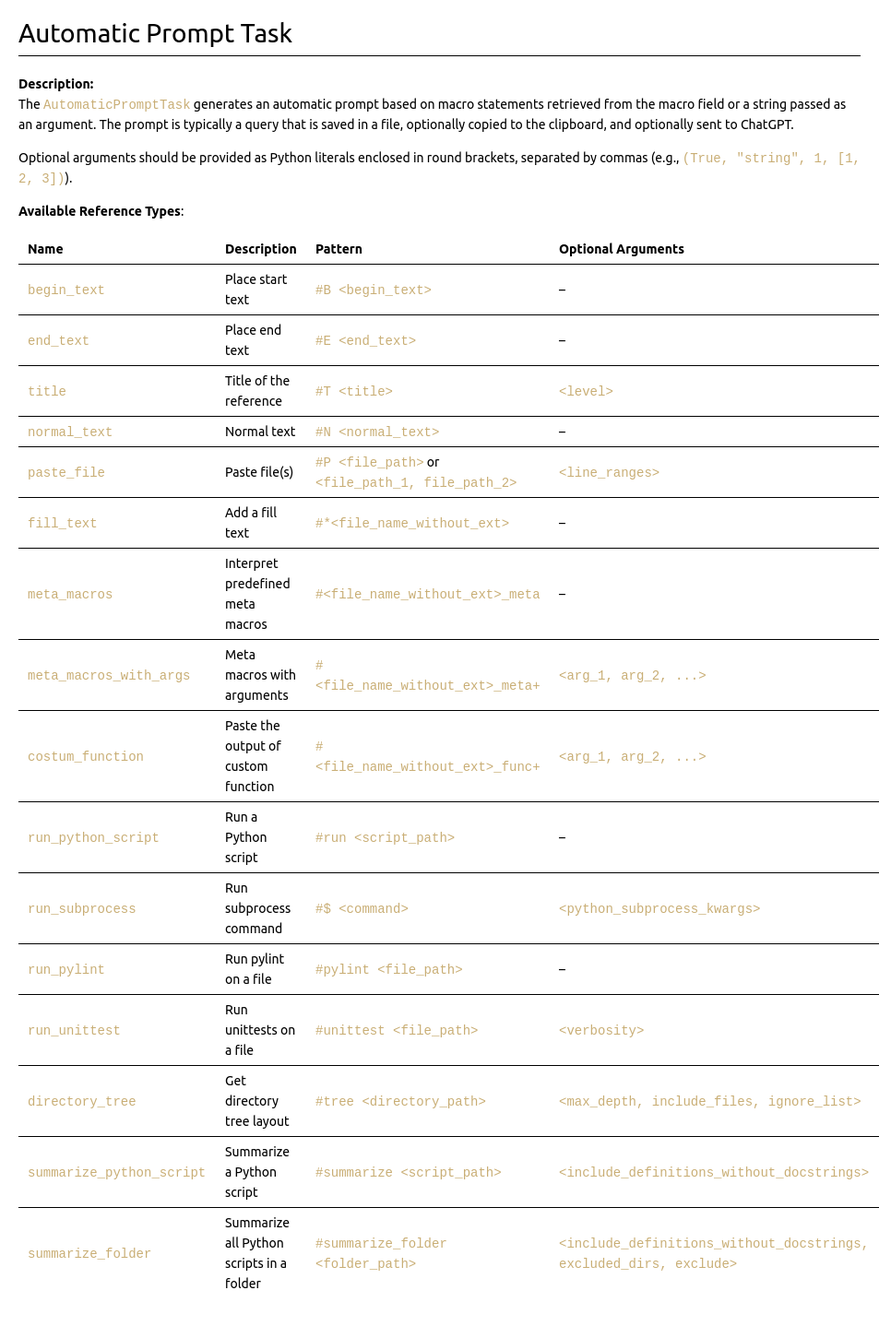
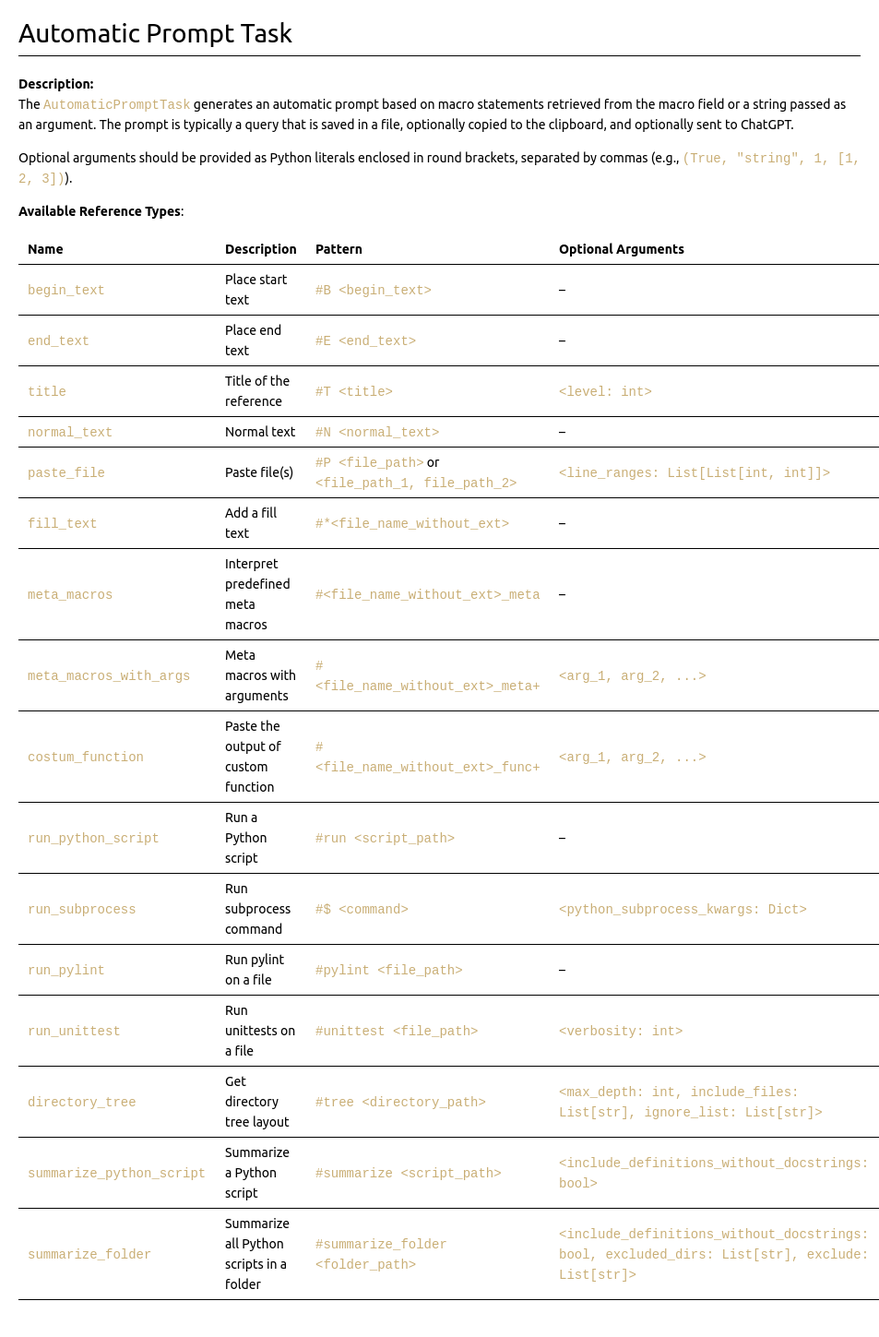
Add type hints to optional args in auto prompt macros

diff --git a/tasks/tasks/automatic_prompt/automatic_prompt_task.py b/tasks/tasks/automatic_prompt/automatic_prompt_task.py
@@ -4,27 +4,26 @@ retrieved from the macro field or a string passed as an argument. The prompt,
 typically a query, is then finalized and saved in a file.
 
 Available reference types:
-| Name                     | Description                             | Pattern                                              | Arguments                                                       |
-|--------------------------|-----------------------------------------|------------------------------------------------------|-----------------------------------------------------------------|
-| begin_text               | Place start text                        | #B <begin_text>                                      | -                                                               |
-| end_text                 | Place end text                          | #E <end_text>                                        | -                                                               |
-| title                    | Title of the reference                  | #T <title>                                           | <level: int>                                                    |
-| normal_text              | Normal text                             | #N <normal_text>                                     | -                                                               |
-| paste_file               | Paste file/s                            | #P <file_path> or <file_path_1, file_path_2>         | <line_ranges>                                                   |
-| error                    | Get logged errors                       | #L                                                   | -                                                               |
-| fill_text                | Add a fill text                         | #<file_name_without_ext>                             | -                                                               |
-| meta_macros              | Interpret predefined meta macros        | #<file_name_without_ext>_meta                        | -                                                               |
-| meta_macros_with_args    | Meta macros with args                   | #<file_name_without_ext>_meta+                       | <arg_1, arg_2, ...>                                             |
-| costum_function          | Paste the output of custom function     | #<file_name_without_ext>_func+                       | <arg_1, arg_2, ...>                                             |
-| run_python_script        | Run a Python script                     | #run <script_path>                                   | -                                                               |
-| run_command              | Run Command                             | #$ <command>                                         | <subprocess kwargs>                                             |
-| run_pylint               | Run pylint on a file                    | #run_pylint <file_path>                              | -                                                               |
-| run_unittest             | Run unittest on a file                  | #run_unittest <file_path>                            | <verbosity>                                                     |
-| directory_tree           | Get directory tree                      | #tree <directory_path>                               | <max_depth, include_files, ignore_list>                         |
-| summarize_python_script  | Summarize a Python script               | #summarize <script_path>                             | <include_definitions_with_docstrings>                           |
-| summarize_folder         | Summarize Python scripts in a folder    | #summarize_folder <folder_path>                      | <include_definitions_with_docstrings, excluded_dirs, excluded_files> |
-| send_prompt              | Send a prompt from a temporary file     | #send                                                | <create_python_script, max_tokens>                              |
-
+| Name                     | Description                             | Pattern                                              | Optional Arguments                                                                            |
+|--------------------------|-----------------------------------------|------------------------------------------------------|-----------------------------------------------------------------------------------------------|
+| begin_text               | Place start text                        | #B <begin_text>                                      | –                                                                                             |
+| end_text                 | Place end text                          | #E <end_text>                                        | –                                                                                             |
+| title                    | Title of the reference                  | #T <title>                                           | <level: int>                                                                                  |
+| normal_text              | Normal text                             | #N <normal_text>                                     | –                                                                                             |
+| paste_file               | Paste file/s                            | #P <file_path> or <file_path_1, file_path_2>         | <line_ranges: List[List[int, int]]>                                                           |
+| error                    | Get logged errors                       | #L                                                   | –                                                                                             |
+| fill_text                | Add a fill text                         | #<file_name_without_ext>                             | –                                                                                             |
+| meta_macros              | Interpret predefined meta macros        | #<file_name_without_ext>_meta                        | –                                                                                             |
+| meta_macros_with_args    | Meta macros with args                   | #<file_name_without_ext>_meta+                       | <arg_1, arg_2, ...>                                                                           |
+| costum_function          | Paste the output of custom function     | #<file_name_without_ext>_func+                       | <arg_1, arg_2, ...>                                                                           |
+| run_python_script        | Run a Python script                     | #run <script_path>                                   | –                                                                                             |
+| run_command              | Run Command                             | #$ <command>                                         | <subprocess kwargs: Dict>                                                                     |
+| run_pylint               | Run pylint on a file                    | #run_pylint <file_path>                              | –                                                                                             |
+| run_unittest             | Run unittest on a file                  | #run_unittest <file_path>                            | <verbosity: int>                                                                              |
+| directory_tree           | Get directory tree                      | #tree <directory_path>                               | <max_depth: int, include_files: List[str], ignore_list: List[str]>                            |
+| summarize_python_script  | Summarize a Python script               | #summarize <script_path>                             | <include_definitions_with_docstring: bool>                                                    |
+| summarize_folder         | Summarize Python scripts in a folder    | #summarize_folder <folder_path>                      | <include_definitions_with_docstrings: bool, excluded_dirs: List[str], excluded_files: List[str]> |
+| send_prompt              | Send a prompt from a temporary file     | #send                                                | <create_python_script: bool, max_tokens: int>                                                 |
 
 Usage Example: macros_text = ( "#T This is the Start of the prompt\n", "#C Some
 text\n", "#T New Chapter\n", "#run example_script.py\n", "#E Now that we paste

diff --git a/tasks/management/support_files/CHEATSHEET.md b/tasks/management/support_files/CHEATSHEET.md
@@ -56,24 +56,24 @@ The `AutomaticPromptTask` is designed to generate automatic prompts based on mac
 Optional arguments should be provided as Python literals enclosed in round brackets, separated by commas (e.g., `(True, "string", 1, [1, 2, 3])`). If no arguments are specified, default values will be used.
 
 **Available Reference Types**:
-| Name                     | Description                                                                                       | Pattern                                                 | Optional Arguments                                                |
-|--------------------------|---------------------------------------------------------------------------------------------------|----------------------------------------------------------|-------------------------------------------------------------------|
-| `begin_text`             | Place start text                                                                                  | `#B <begin_text>`                                        | –                                                                 |
-| `end_text`               | Place end text                                                                                    | `#E <end_text>`                                          | –                                                                 |
-| `title`                  | Title of the reference                                                                            | `#T <title>`                                             | `<level>`                                                         |
-| `normal_text`            | Normal text                                                                                       | `#N <normal_text>`                                       | –                                                                 |
-| `paste_file`             | Paste file(s)                                                                                     | `#P <file_path>` or `<file_path_1, file_path_2>`         | `<line_ranges>`                                                   |
-| `fill_text`              | Add a fill text ([see more](./costumizations/fill_texts/fill_text_template/template_4.txt))       | `#*<file_name_without_ext>`                              | –                                                                 |
-| `meta_macros`            | Interpret predefined meta macros ([see more](./costumizations/meta_macros/template_1.py))         | `#<file_name_without_ext>_meta`                          | –                                                                 |
-| `meta_macros_with_args`  | Meta macros with arguments ([see more](./costumizations/meta_macros_with_args/template_2.py))     | `#<file_name_without_ext>_meta+`                         | `<arg_1, arg_2, ...>`                                             |
-| `costum_function`        | Paste the output of custom function ([see more](./costumizations/functions/costum_function_template/template_3.py)) | `#<file_name_without_ext>_func+`                         | `<arg_1, arg_2, ...>`                                             |
-| `run_python_script`      | Run a Python script                                                                               | `#run <script_path>`                                     | –                                                                 |
-| `run_subprocess`         | Run subprocess command                                                                            | `#$ <command>`                                           | `<python_subprocess_kwargs>`                                     |
-| `run_pylint`             | Run pylint on a file                                                                              | `#pylint <file_path>`                                    | –                                                                 |
-| `run_unittest`           | Run unittests on a file                                                                           | `#unittest <file_path>`                                  | `<verbosity>`                                                     |
-| `directory_tree`         | Get directory tree layout                                                                         | `#tree <directory_path>`                                 | `<max_depth, include_files, ignore_list>`                        |
-| `summarize_python_script`| Summarize a Python script                                                                         | `#summarize <script_path>`                               | `<include_definitions_without_docstrings>`                       |
-| `summarize_folder`       | Summarize all Python scripts in a folder                                                          | `#summarize_folder <folder_path>`                        | `<include_definitions_without_docstrings, excluded_dirs, exclude>` |
+| Name                     | Description                                                                                       | Pattern                                                 | Optional Arguments                                                                                  |
+|--------------------------|---------------------------------------------------------------------------------------------------|----------------------------------------------------------|-------------------------------------------------------------------------------------------------------|
+| `begin_text`             | Place start text                                                                                  | `#B <begin_text>`                                        | –                                                                                                     |
+| `end_text`               | Place end text                                                                                    | `#E <end_text>`                                          | –                                                                                                     |
+| `title`                  | Title of the reference                                                                            | `#T <title>`                                             | `<level: int>`                                                                                        |
+| `normal_text`            | Normal text                                                                                       | `#N <normal_text>`                                       | –                                                                                                     |
+| `paste_file`             | Paste file(s)                                                                                     | `#P <file_path>` or `<file_path_1, file_path_2>`         | `<line_ranges: List[List[int, int]]>`                                                                 |
+| `fill_text`              | Add a fill text ([see more](./costumizations/fill_texts/fill_text_template/template_4.txt))       | `#*<file_name_without_ext>`                              | –                                                                                                     |
+| `meta_macros`            | Interpret predefined meta macros ([see more](./costumizations/meta_macros/template_1.py))         | `#<file_name_without_ext>_meta`                          | –                                                                                                     |
+| `meta_macros_with_args`  | Meta macros with arguments ([see more](./costumizations/meta_macros_with_args/template_2.py))     | `#<file_name_without_ext>_meta+`                         | `<arg_1, arg_2, ...>`                                                                                 |
+| `costum_function`        | Paste the output of custom function ([see more](./costumizations/functions/costum_function_template/template_3.py)) | `#<file_name_without_ext>_func+`       | `<arg_1, arg_2,>`                                                                                     |
+| `run_python_script`      | Run a Python script                                                                               | `#run <script_path>`                                     | –                                                                                                     |
+| `run_subprocess`         | Run subprocess command                                                                            | `#$ <command>`                                           | `<python_subprocess_kwargs: Dict>`                                                                    |
+| `run_pylint`             | Run pylint on a file                                                                              | `#pylint <file_path>`                                    | –                                                                                                     |
+| `run_unittest`           | Run unittests on a file                                                                           | `#unittest <file_path>`                                  | `<verbosity: int>`                                                                                    |
+| `directory_tree`         | Get directory tree layout                                                                         | `#tree <directory_path>`                                 | `<max_depth: int, include_files: List[str], ignore_list: List[str]>`                                  |
+| `summarize_python_script`| Summarize a Python script                                                                         | `#summarize <script_path>`                               | `<include_definitions_without_docstrings: bool>`                                                      |
+| `summarize_folder`       | Summarize all Python scripts in a folder                                                          | `#summarize_folder <folder_path>`                        | `<include_definitions_without_docstrings: bool, excluded_dirs: List[str], exclude: List[str]>`        |
 
 
 **Usage from command line**:  

diff --git a/README.md b/README.md
@@ -116,24 +116,24 @@ The `AutomaticPromptTask` generates an automatic prompt based on macro statement
 Optional arguments should be provided as Python literals enclosed in round brackets, separated by commas (e.g., `(True, "string", 1, [1, 2, 3])`).
 
 **Available Reference Types**:
-| Name                     | Description                                                                                       | Pattern                                                 | Optional Arguments                                                |
-|--------------------------|---------------------------------------------------------------------------------------------------|----------------------------------------------------------|-------------------------------------------------------------------|
-| `begin_text`             | Place start text                                                                                  | `#B <begin_text>`                                        | –                                                                 |
-| `end_text`               | Place end text                                                                                    | `#E <end_text>`                                          | –                                                                 |
-| `title`                  | Title of the reference                                                                            | `#T <title>`                                             | `<level>`                                                         |
-| `normal_text`            | Normal text                                                                                       | `#N <normal_text>`                                       | –                                                                 |
-| `paste_file`             | Paste file(s)                                                                                     | `#P <file_path>` or `<file_path_1, file_path_2>`         | `<line_ranges>`                                                   |
-| `fill_text`              | Add a fill text                                                                                   | `#*<file_name_without_ext>`                              | –                                                                 |
-| `meta_macros`            | Interpret predefined meta macros                                                                  | `#<file_name_without_ext>_meta`                          | –                                                                 |
-| `meta_macros_with_args`  | Meta macros with arguments                                                                        | `#<file_name_without_ext>_meta+`                         | `<arg_1, arg_2, ...>`                                             |
-| `costum_function`        | Paste the output of custom function                                                               | `#<file_name_without_ext>_func+`                         | `<arg_1, arg_2, ...>`                                             |
-| `run_python_script`      | Run a Python script                                                                               | `#run <script_path>`                                     | –                                                                 |
-| `run_subprocess`         | Run subprocess command                                                                            | `#$ <command>`                                           | `<python_subprocess_kwargs>`                                     |
-| `run_pylint`             | Run pylint on a file                                                                              | `#pylint <file_path>`                                    | –                                                                 |
-| `run_unittest`           | Run unittests on a file                                                                           | `#unittest <file_path>`                                  | `<verbosity>`                                                     |
-| `directory_tree`         | Get directory tree layout                                                                         | `#tree <directory_path>`                                 | `<max_depth, include_files, ignore_list>`                        |
-| `summarize_python_script`| Summarize a Python script                                                                         | `#summarize <script_path>`                               | `<include_definitions_without_docstrings>`                       |
-| `summarize_folder`       | Summarize all Python scripts in a folder                                                          | `#summarize_folder <folder_path>`                        | `<include_definitions_without_docstrings, excluded_dirs, exclude>` |
+| Name                     | Description                                                                                       | Pattern                                                 | Optional Arguments                                                                                   |
+|--------------------------|---------------------------------------------------------------------------------------------------|----------------------------------------------------------|--------------------------------------------------------------------------------------------------------|
+| `begin_text`             | Place start text                                                                                  | `#B <begin_text>`                                        | –                                                                                                      |
+| `end_text`               | Place end text                                                                                    | `#E <end_text>`                                          | –                                                                                                      |
+| `title`                  | Title of the reference                                                                            | `#T <title>`                                             | `<level: int>`                                                                                         |
+| `normal_text`            | Normal text                                                                                       | `#N <normal_text>`                                       | –                                                                                                      |
+| `paste_file`             | Paste file(s)                                                                                     | `#P <file_path>` or `<file_path_1, file_path_2>`         | `<line_ranges: List[List[int, int]]>`                                                                  |
+| `fill_text`              | Add a fill text                                                                                   | `#*<file_name_without_ext>`                              | –                                                                                                      |
+| `meta_macros`            | Interpret predefined meta macros                                                                  | `#<file_name_without_ext>_meta`                          | –                                                                                                      |
+| `meta_macros_with_args`  | Meta macros with arguments                                                                        | `#<file_name_without_ext>_meta+`                         | `<arg_1, arg_2, ...>`                                                                                  |
+| `costum_function`        | Paste the output of custom function                                                               | `#<file_name_without_ext>_func+`                         | `<arg_1, arg_2, ...>`                                                                                  |
+| `run_python_script`      | Run a Python script                                                                               | `#run <script_path>`                                     | –                                                                                                      |
+| `run_subprocess`         | Run subprocess command                                                                            | `#$ <command>`                                           | `<python_subprocess_kwargs: Dict>`                                                                     |
+| `run_pylint`             | Run pylint on a file                                                                              | `#pylint <file_path>`                                    | –                                                                                                      |
+| `run_unittest`           | Run unittests on a file                                                                           | `#unittest <file_path>`                                  | `<verbosity: int>`                                                                                     |
+| `directory_tree`         | Get directory tree layout                                                                         | `#tree <directory_path>`                                 | `<max_depth: int, include_files: List[str], ignore_list: List[str]>`                                  |
+| `summarize_python_script`| Summarize a Python script                                                                         | `#summarize <script_path>`                               | `<include_definitions_without_docstrings: bool>`                                                       |
+| `summarize_folder`       | Summarize all Python scripts in a folder                                                          | `#summarize_folder <folder_path>`                        | `<include_definitions_without_docstrings: bool, excluded_dirs: List[str], exclude: List[str]>`         |
 
 
 **Usage from command line**:  
